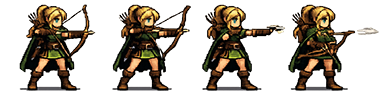
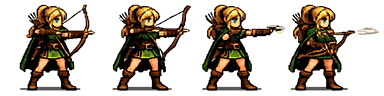
fix: make ITEMS global, fix map race condition, update assets to webp

diff --git a/index.html b/index.html
@@ -29,7 +29,7 @@
     </div>
 
     <!-- Hero image — large, left side, vertically centered -->
-    <img src="assets/heroes/Sqvad.png" class="hero-squad-image" alt="Герои Grimwood">
+    <img src="assets/heroes/Sqvad.webp" class="hero-squad-image" alt="Герои Grimwood">
 
     <!-- Menu buttons — right of image, vertically centered -->
     <div class="menu-buttons">
@@ -277,7 +277,7 @@
         <div class="map-current-location" id="mapCurrentLocation">📍 Загрузка...</div>
 
         <div class="map-image-container">
-            <img id="mapImage" src="assets/map/map.png" alt="Карта мира Grimwood" class="map-image">
+            <img id="mapImage" src="assets/map/map.webp" alt="Карта мира Grimwood" class="map-image">
         </div>
 
         <div class="map-locations" id="mapLocations">

diff --git a/js/game.js b/js/game.js
@@ -18,10 +18,11 @@ async function loadGrimwoodData() {
 document.addEventListener("DOMContentLoaded", async () => {
     ui.init();
     inventory.init();
-    mapModule.init();
 
-    // Загружаем данные карты
+    // Загружаем данные карты ДО инициализации карты
     await loadGrimwoodData();
+
+    mapModule.init();
 
     const inventoryBtn = document.getElementById("inventoryBtn");
     const mapBtn = document.getElementById("mapBtn");

diff --git a/js/map.js b/js/map.js
@@ -310,7 +310,7 @@ window.mapModule = {
 
         // Устанавливаем изображение карты
         if (this.mapImage) {
-            this.mapImage.src = "assets/map/map.png";
+            this.mapImage.src = "assets/map/map.webp";
             this.mapImage.alt = "Карта мира Grimwood";
             // Скрываем индикатор загрузки после загрузки изображения
             this.mapImage.onload = () => {

diff --git a/css/class-select.css b/css/class-select.css
@@ -14,7 +14,7 @@
         radial-gradient(circle at top, rgba(116, 146, 98, 0.12), transparent 34%),
         radial-gradient(circle at bottom, rgba(220, 168, 77, 0.08), transparent 26%),
         linear-gradient(180deg, rgba(4, 8, 10, 0.82), rgba(4, 5, 7, 0.94)),
-        url("../assets/backgrounds/forest3.png") center / cover no-repeat;
+        url("../assets/backgrounds/forest3.webp") center / cover no-repeat;
     background-size: cover;
     background-position: center;
 }

diff --git a/js/data.js b/js/data.js
@@ -170,12 +170,12 @@ window.BOSSES = {
    ITEMS
 ================================ */
 
-const ITEMS = {
+window.ITEMS = {
     potion_small: {
         id: "potion_small",
         name: "Малое зелье лечения",
         description: "Восстанавливает 30 HP.",
-        icon: "assets/items/potion_red.png",
+        icon: "assets/items/potion_red.webp",
         type: "consumable",
         stackable: true,
         maxStack: 5

diff --git a/css/layout.css b/css/layout.css
@@ -17,7 +17,7 @@
     position: relative;
     overflow: hidden;
 
-    background: url("../assets/backgrounds/forest3.png")
+    background: url("../assets/backgrounds/forest3.webp")
         center / cover no-repeat;
 }
 
